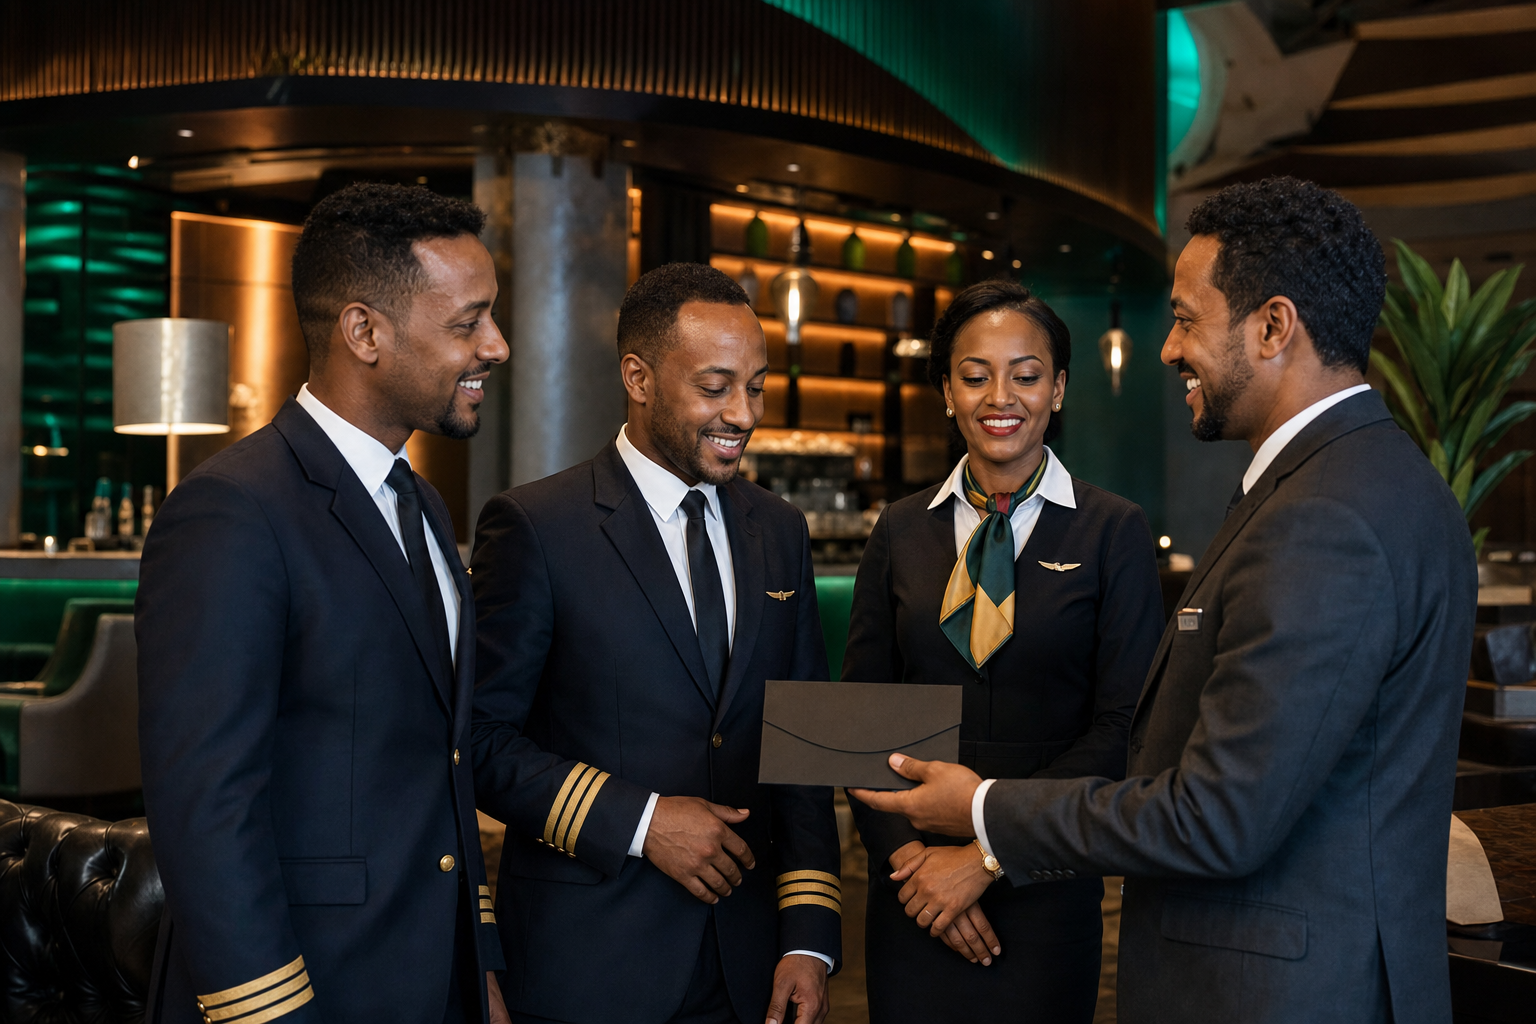
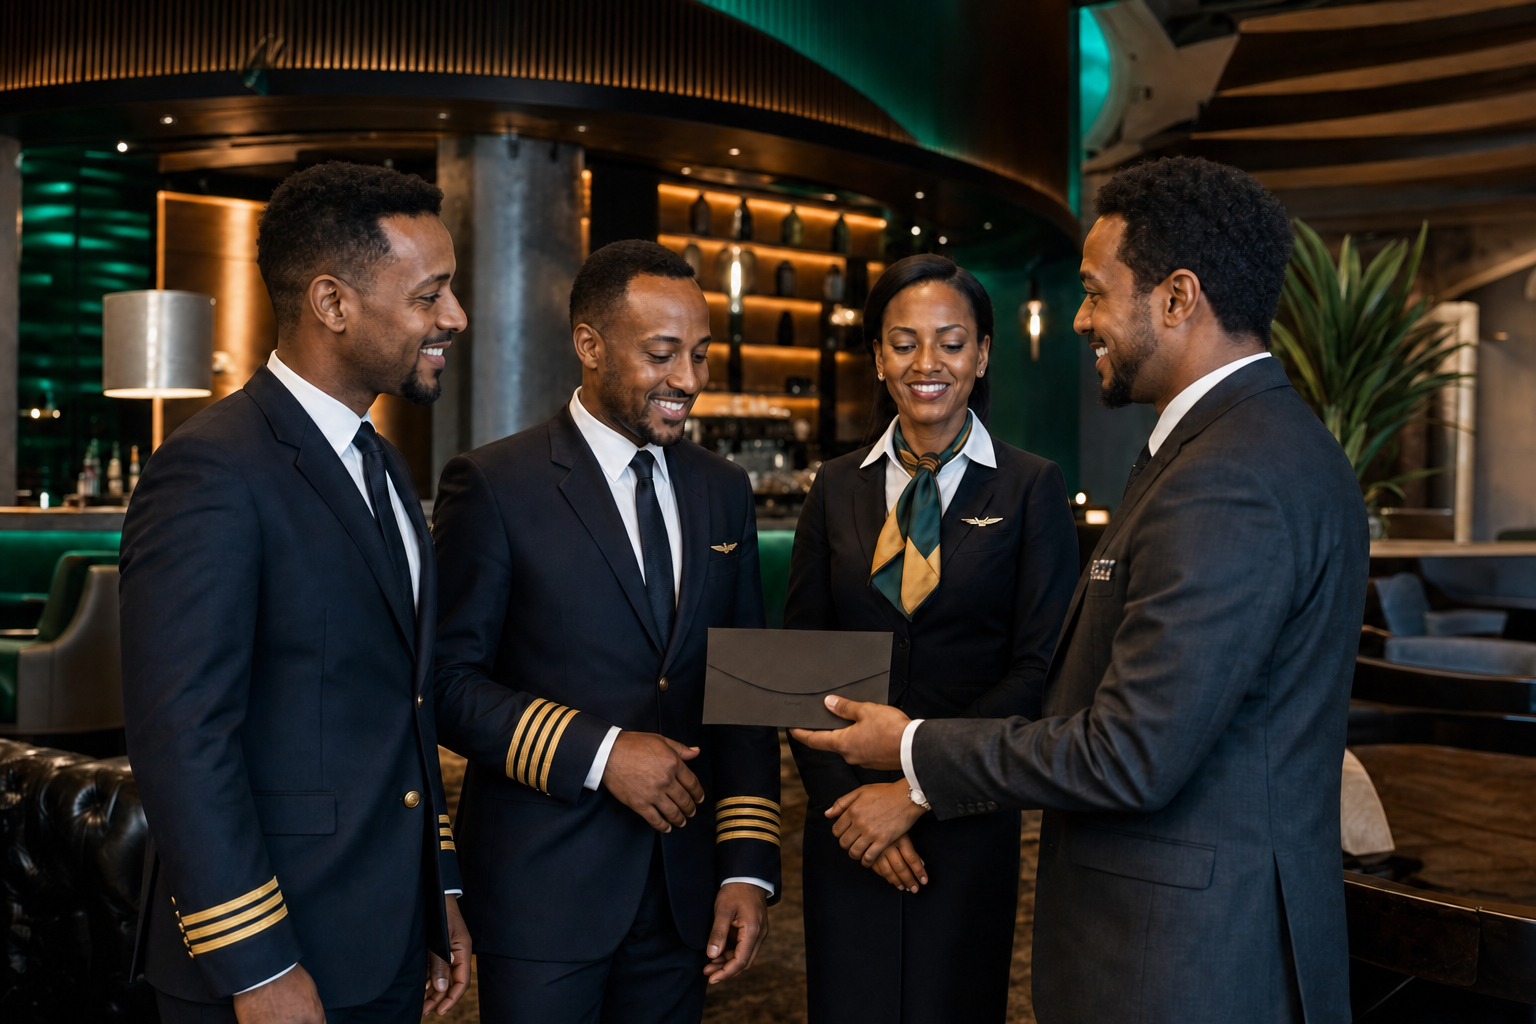
Update event name to "College Saturdays" and add birthday celebration service

diff --git a/pages/events/index.js b/pages/events/index.js
@@ -30,16 +30,10 @@ const events = [
     imageUrl: "/event-dj-fridays.png",
   },
   {
-    name: "College Nights",
+    name: "College Saturdays",
     description:
       "50% off all beers, for all our college students, every Saturday night! Must show your student ID.",
     imageUrl: "/event-college-nights.png",
-  },
-  {
-    name: "Birthday Celebration",
-    description:
-      "Show ID and bring at least three other people with you, and our birthday boy or birthday girl will get 3 free drinks!!!",
-    imageUrl: "/event-birthday-celebration.png",
   },
 ];
 

diff --git a/pages/services/index.js b/pages/services/index.js
@@ -26,6 +26,13 @@ const services = [
       "Introducing a service program for aspiring promoters. Follow us for more details.",
     imageUrl: "/service-promoter-spinoffs.png",
   },
+  {
+    name: "Birthday Celebration",
+    label: "Birthday perks",
+    description:
+      "Show ID and bring at least three other people with you, and our birthday boy or birthday girl will get 3 free drinks!!!",
+    imageUrl: "/event-birthday-celebration.png",
+  },
 ];
 
 export default function Services() {
